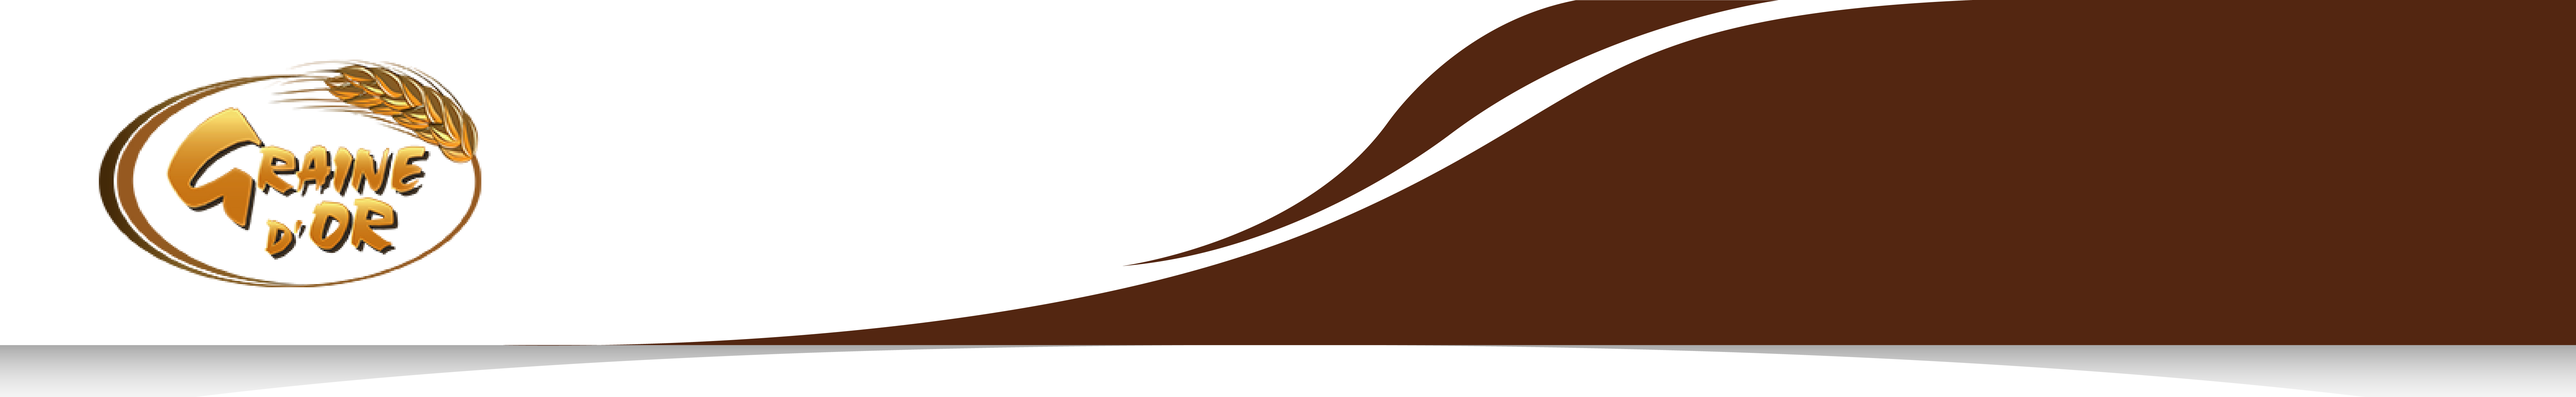
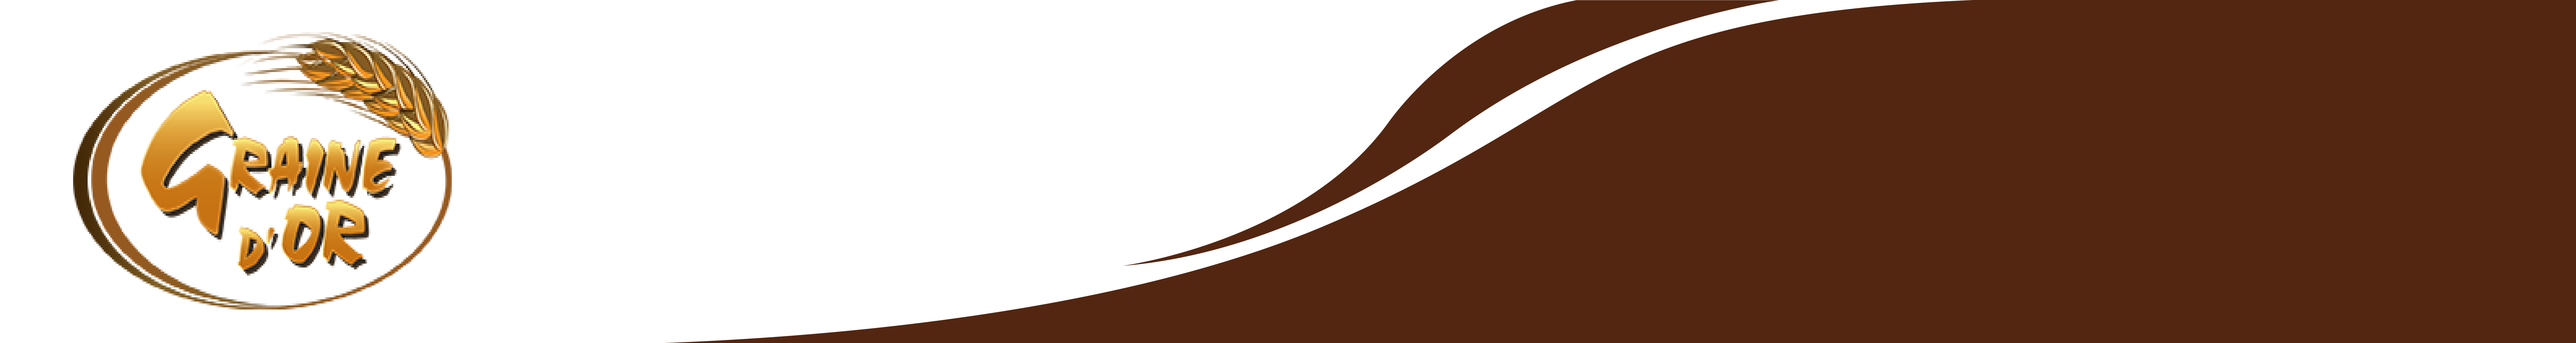
qsdjsqdqsldjm

Changed region(s): [[0.0, 0.0309, 1.0, 1.0], [0.7188, 0.0, 0.75, 0.0309]]

diff --git a/src/app/vendeur/dashboard/dashboard.component.html b/src/app/vendeur/dashboard/dashboard.component.html
@@ -1,5 +1,5 @@
 <div class="container" style="min-width: 100%;">
-    <div nz-row [nzGutter]="{ xs: 24, sm: 24, md: 24, lg: 24 }" style="margin-bottom: 1rem;">
+    <div nz-row [nzGutter]="{ xs: 24, sm: 24, md: 24, lg: 24 }" style="margin-bottom: 1rem;margin-top: 2rem;">
         <div nz-col class="gutter-row" [nzSpan]="8">
             <div class="inner-box totalVente">
                 Total : {{this.montantTotal}} cfa
@@ -35,27 +35,33 @@
     <div nz-row [nzGutter]="{ xs: 24, sm: 24, md: 24, lg: 24 }">
         <div nz-col class="gutter-row" [nzSpan]="10">
             <div class="inner-box">
-                <form>
-                    <div class="form-group">
-                      <input [(ngModel)]="this.debut" [ngModelOptions]="{standalone: true}" type="date" class="form-control" id="exampleInputEmail1" aria-describedby="emailHelp" placeholder="Enter email">
+                <div class="input-group form-group row" style="margin-left:1rem;padding:5px; margin-top: 1rem;background-color: #532611;">
+                    <div class="input-group-prepend col-5"  style="margin-left:1rem;background-color: #532611;padding: 0;margin: 0;">
+                      <span class="input-group-text" style="border: none; background-color: #532611;color: white;font-size: 1rem;"><i class="fas fa-calendar" style="padding-top: 5px;background: white;color: #532611;width: 3rem; height: 3rem; font-size: 2rem;margin-right: 7px;"></i>Date debut</span>
                     </div>
-                </form>
+                    <div class="col-7" style="padding: 0;margin: 0;">
+                      <input  type="date" style="width: 100%;height: 100%;" placeholder="identifiant" [(ngModel)]="this.debut" [ngModelOptions]="{standalone: true}"  />
+                    </div>
+                </div>
             </div>
         </div>
         <div nz-col class="gutter-row" [nzSpan]="10">
             <div class="inner-box">
-                <form>
-                    <div class="form-group">
-                      <input [(ngModel)]="this.fin" [ngModelOptions]="{standalone: true}"  type="date" class="form-control" id="exampleInputEmail1" aria-describedby="emailHelp" placeholder="Enter email">
+                <div class="input-group form-group row" style="margin-left:1rem;padding:5px; margin-top: 1rem;background-color: #532611;">
+                    <div class="input-group-prepend col-5"  style="background-color: #532611;padding: 0;margin: 0;">
+                      <span class="input-group-text" style="border: none; background-color: #532611;color: white;font-size: 1rem;"><i class="fas fa-calendar" style="padding-top: 5px;background: white;color: #532611;width: 3rem; height: 3rem; font-size: 2rem;margin-right: 7px;"></i>Date debut</span>
                     </div>
-                </form>
+                    <div class="col-7" style="padding: 0;margin: 0;">
+                      <input  type="date" style="width: 100%;height: 100%;" placeholder="identifiant" [(ngModel)]="this.fin" [ngModelOptions]="{standalone: true}"  />
+                    </div>
+                </div>
             </div>
         </div>
         <div nz-col class="gutter-row" [nzSpan]="4">
             <div class="inner-box">
-                <form>
-                    <button  class="btn btn-default" (click)="validerRechercheInterval()">valider</button>
-                </form>
+                <div class="input-group form-group row" style="margin-left:1rem;padding:5px; margin-top: 1.5rem;">
+                    <button  class="btn btn-warning" (click)="validerRechercheInterval()">valider</button>
+                </div>
             </div>
         </div>
     </div>

diff --git a/src/app/home/home.component.html b/src/app/home/home.component.html
@@ -1,34 +1,33 @@
 
         
 <nz-layout class="layout"  >
-  <nz-sider class="SamaTheme4" style="background: #532611;" nzCollapsible nzBreakpoint="lg" [nzCollapsedWidth]="0" *ngIf="this.isLivreur==0">
-    <div class="logo" style="height: 54px;text-align: center;color: white;padding-top: 5px;float: none;">
-      <img  style="width: 46%;float: none;"  src="../assets/images/logo-grainedor.png" alt="" srcset="">
-    </div>
-    <ul nz-menu style="background: transparent" nzMode="inline">
-      <li nz-menu-item *ngFor='let item of this.menu'>
-        <i nz-icon nzType="user"></i>
-        <span><a style="color: white;" class="button" routerLink="{{item.path}}" routerLinkActive="activebutton">{{item.titre}}</a></span>
-      </li>
-    </ul>
-  </nz-sider>
-  <nz-layout>
+    <nz-layout>
     <nz-header style="background-color: #532611;height: 87px;">
       <div class="row" >
-
-        <div class="col-lg-10 col-sm-10 col-md-10 col-sx-10">
-          <img  style="width: 100%;height: 10rem;"  src="../assets/images/entete_desktop_Plan_de_travail_1.jpg" alt="" srcset="">
-
+        <div class="col-lg-10 col-sm-10 col-md-10 col-sx-10" style="min-width: 100% !important;">
+          <img  style="width: 100%;height: 10rem;"  src="../../assets/images/entete_desktop.jpg" alt="" srcset="">
         </div>
-        <div class="col-lg-2 col-sm-2 col-md-2 col-sx-2">
+        <div style="position: fixed;right: 2rem;">
           <button  (click)="showMoodal();" style="float: right; margin-right: 1rem;    margin-bottom: 0;padding: 0;margin-top: 1.5rem;" nz-button nzType="primary"  nzShape="circle"><fa-icon [icon]="faCoffee"></fa-icon></button>
         </div>
       </div>
     </nz-header>
     <nz-content style="margin: 0;background-color: #C5A57D;">
-      <div class="inner-content" style="padding: 0; width: 100% !important; padding: 0 !important;margin: 0 !important;background-color: #C5A57D;">
-        <router-outlet></router-outlet>
-     </div> 
+      <nz-layout class="layout">
+        <nz-sider class="SamaTheme4" style="margin-top:1.1rem;border: 2px solid white; padding: 1rem; background: #532611" nzCollapsible nzBreakpoint="lg" [nzCollapsedWidth]="0" *ngIf="this.isLivreur==0">
+          <ul nz-menu style="background: transparent ;border: none;" nzMode="inline">
+            <li nz-menu-item *ngFor='let item of this.menu' style="background-color:  #C5A57D !important;">
+              <i nz-icon nzType="user"></i>
+              <span><a style="color: white;" class="button" routerLink="{{item.path}}" routerLinkActive="activebutton">{{item.titre}}</a></span>
+            </li>
+          </ul>
+        </nz-sider>
+        <nz-layout>
+          <div class="inner-content" style="padding: 0; width: 100% !important; padding: 0 !important;margin: 0 !important;background-color: #C5A57D;">
+            <router-outlet></router-outlet>
+         </div> 
+        </nz-layout>
+      </nz-layout>
     </nz-content>
     <nz-footer style="background-color: #C5A57D;">Copy right ©2021 Implémenter par BBSTech</nz-footer>
   </nz-layout>

diff --git a/src/app/vendeur/livreurs/livreurs.component.html b/src/app/vendeur/livreurs/livreurs.component.html
@@ -1,5 +1,5 @@
 <div class="container" style="min-width:100%">
-    <div nz-row [nzGutter]="{ xs: 24, sm: 24, md: 24, lg: 24 }">
+    <div nz-row [nzGutter]="{ xs: 24, sm: 24, md: 24, lg: 24 }" style="margin-top: 2rem;">
         <div nz-col class="gutter-row" [nzSpan]="24">
             <div class="inner-box">
                 <form>
@@ -12,7 +12,7 @@
             </div>
         </div>
     </div>
-    <div nz-row [nzGutter]="{ xs: 24, sm: 24, md: 24, lg: 24 }">
+    <div nz-row [nzGutter]="{ xs: 24, sm: 24, md: 24, lg: 24 }" style="margin-top: 2rem;">
         <div nz-col class="gutter-row" [nzSpan]="24">
             <div class="inner-box">
                 <!-- <ngx-table [configuration]="configuration"

diff --git a/src/app/vendeur/commandes/commandes.component.html b/src/app/vendeur/commandes/commandes.component.html
@@ -63,7 +63,7 @@
                               <td>{{item.action}}</td>
                               <td>
                                   <button class="btn btn-danger" *ngIf="item.etat==1" (click)="modalOK(item,'2');">Valider</button>
-                                  <button class="btn btn-danger" *ngIf="item.etat==2" (click)="modalOK(item,'3');">Preparer</button>
+                                  <button class="btn btn-info" *ngIf="item.etat==2" (click)="modalOK(item,'3');">Preparer</button>
                                 </td>
                             </tr>
                           </tbody>
